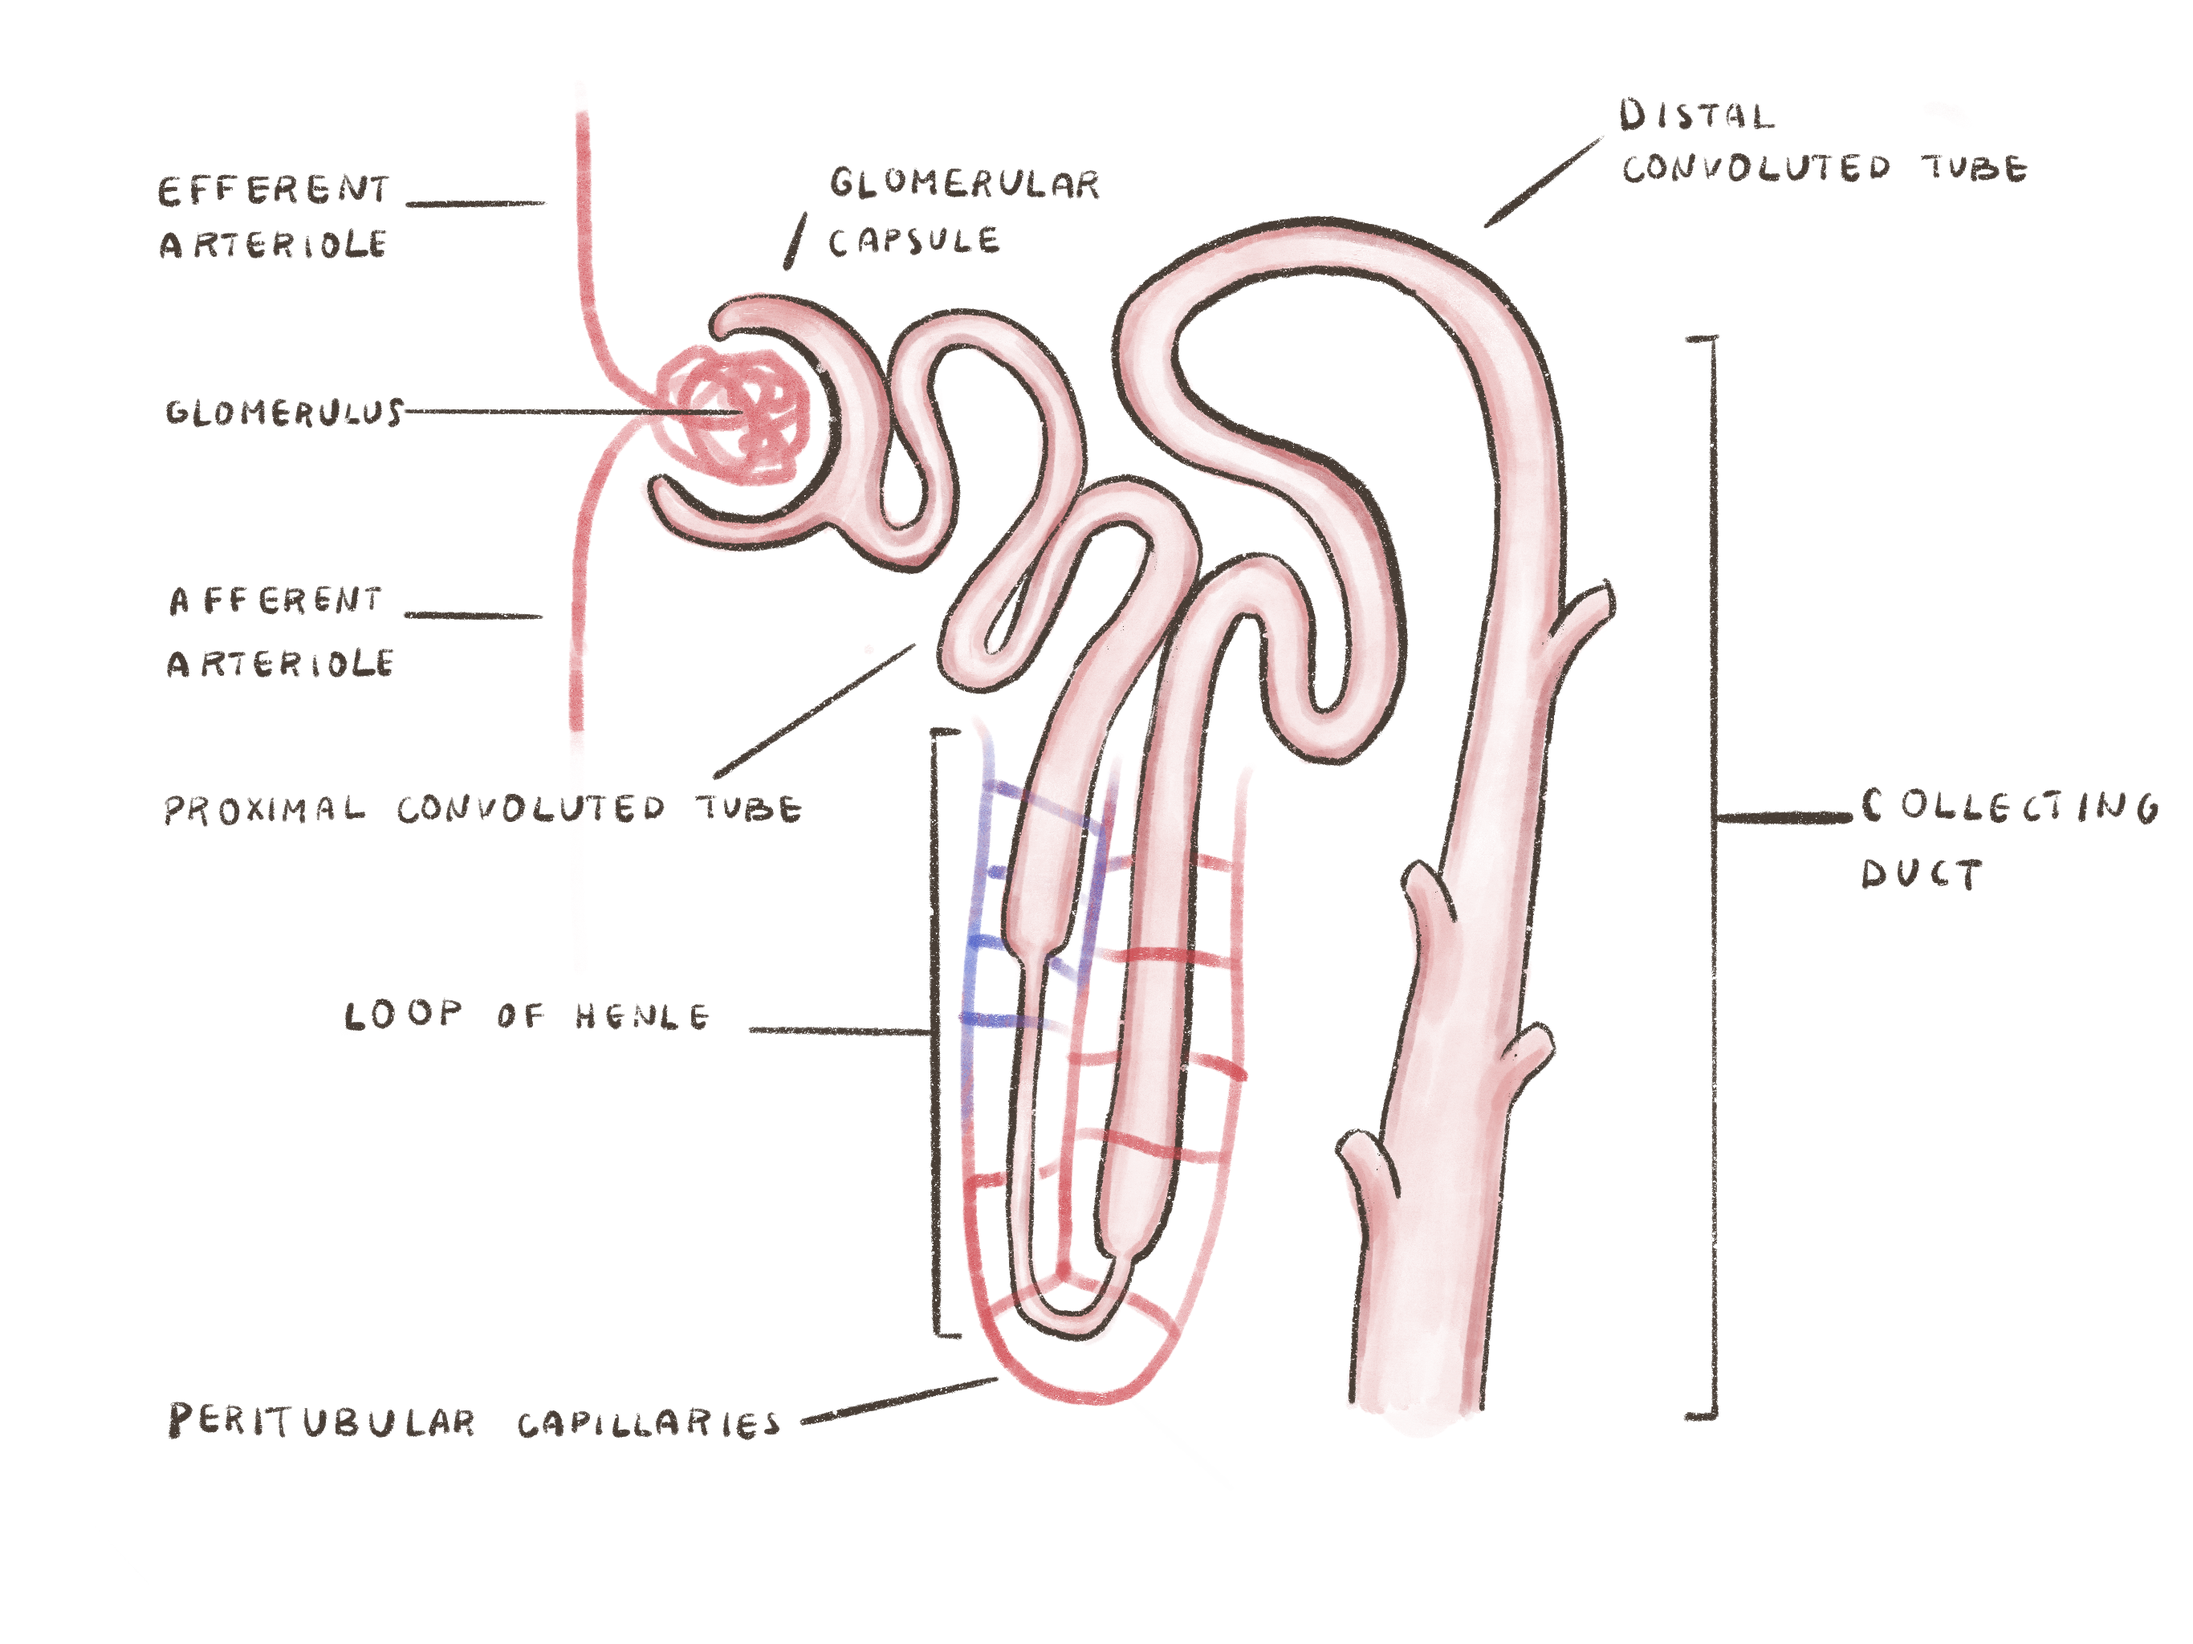
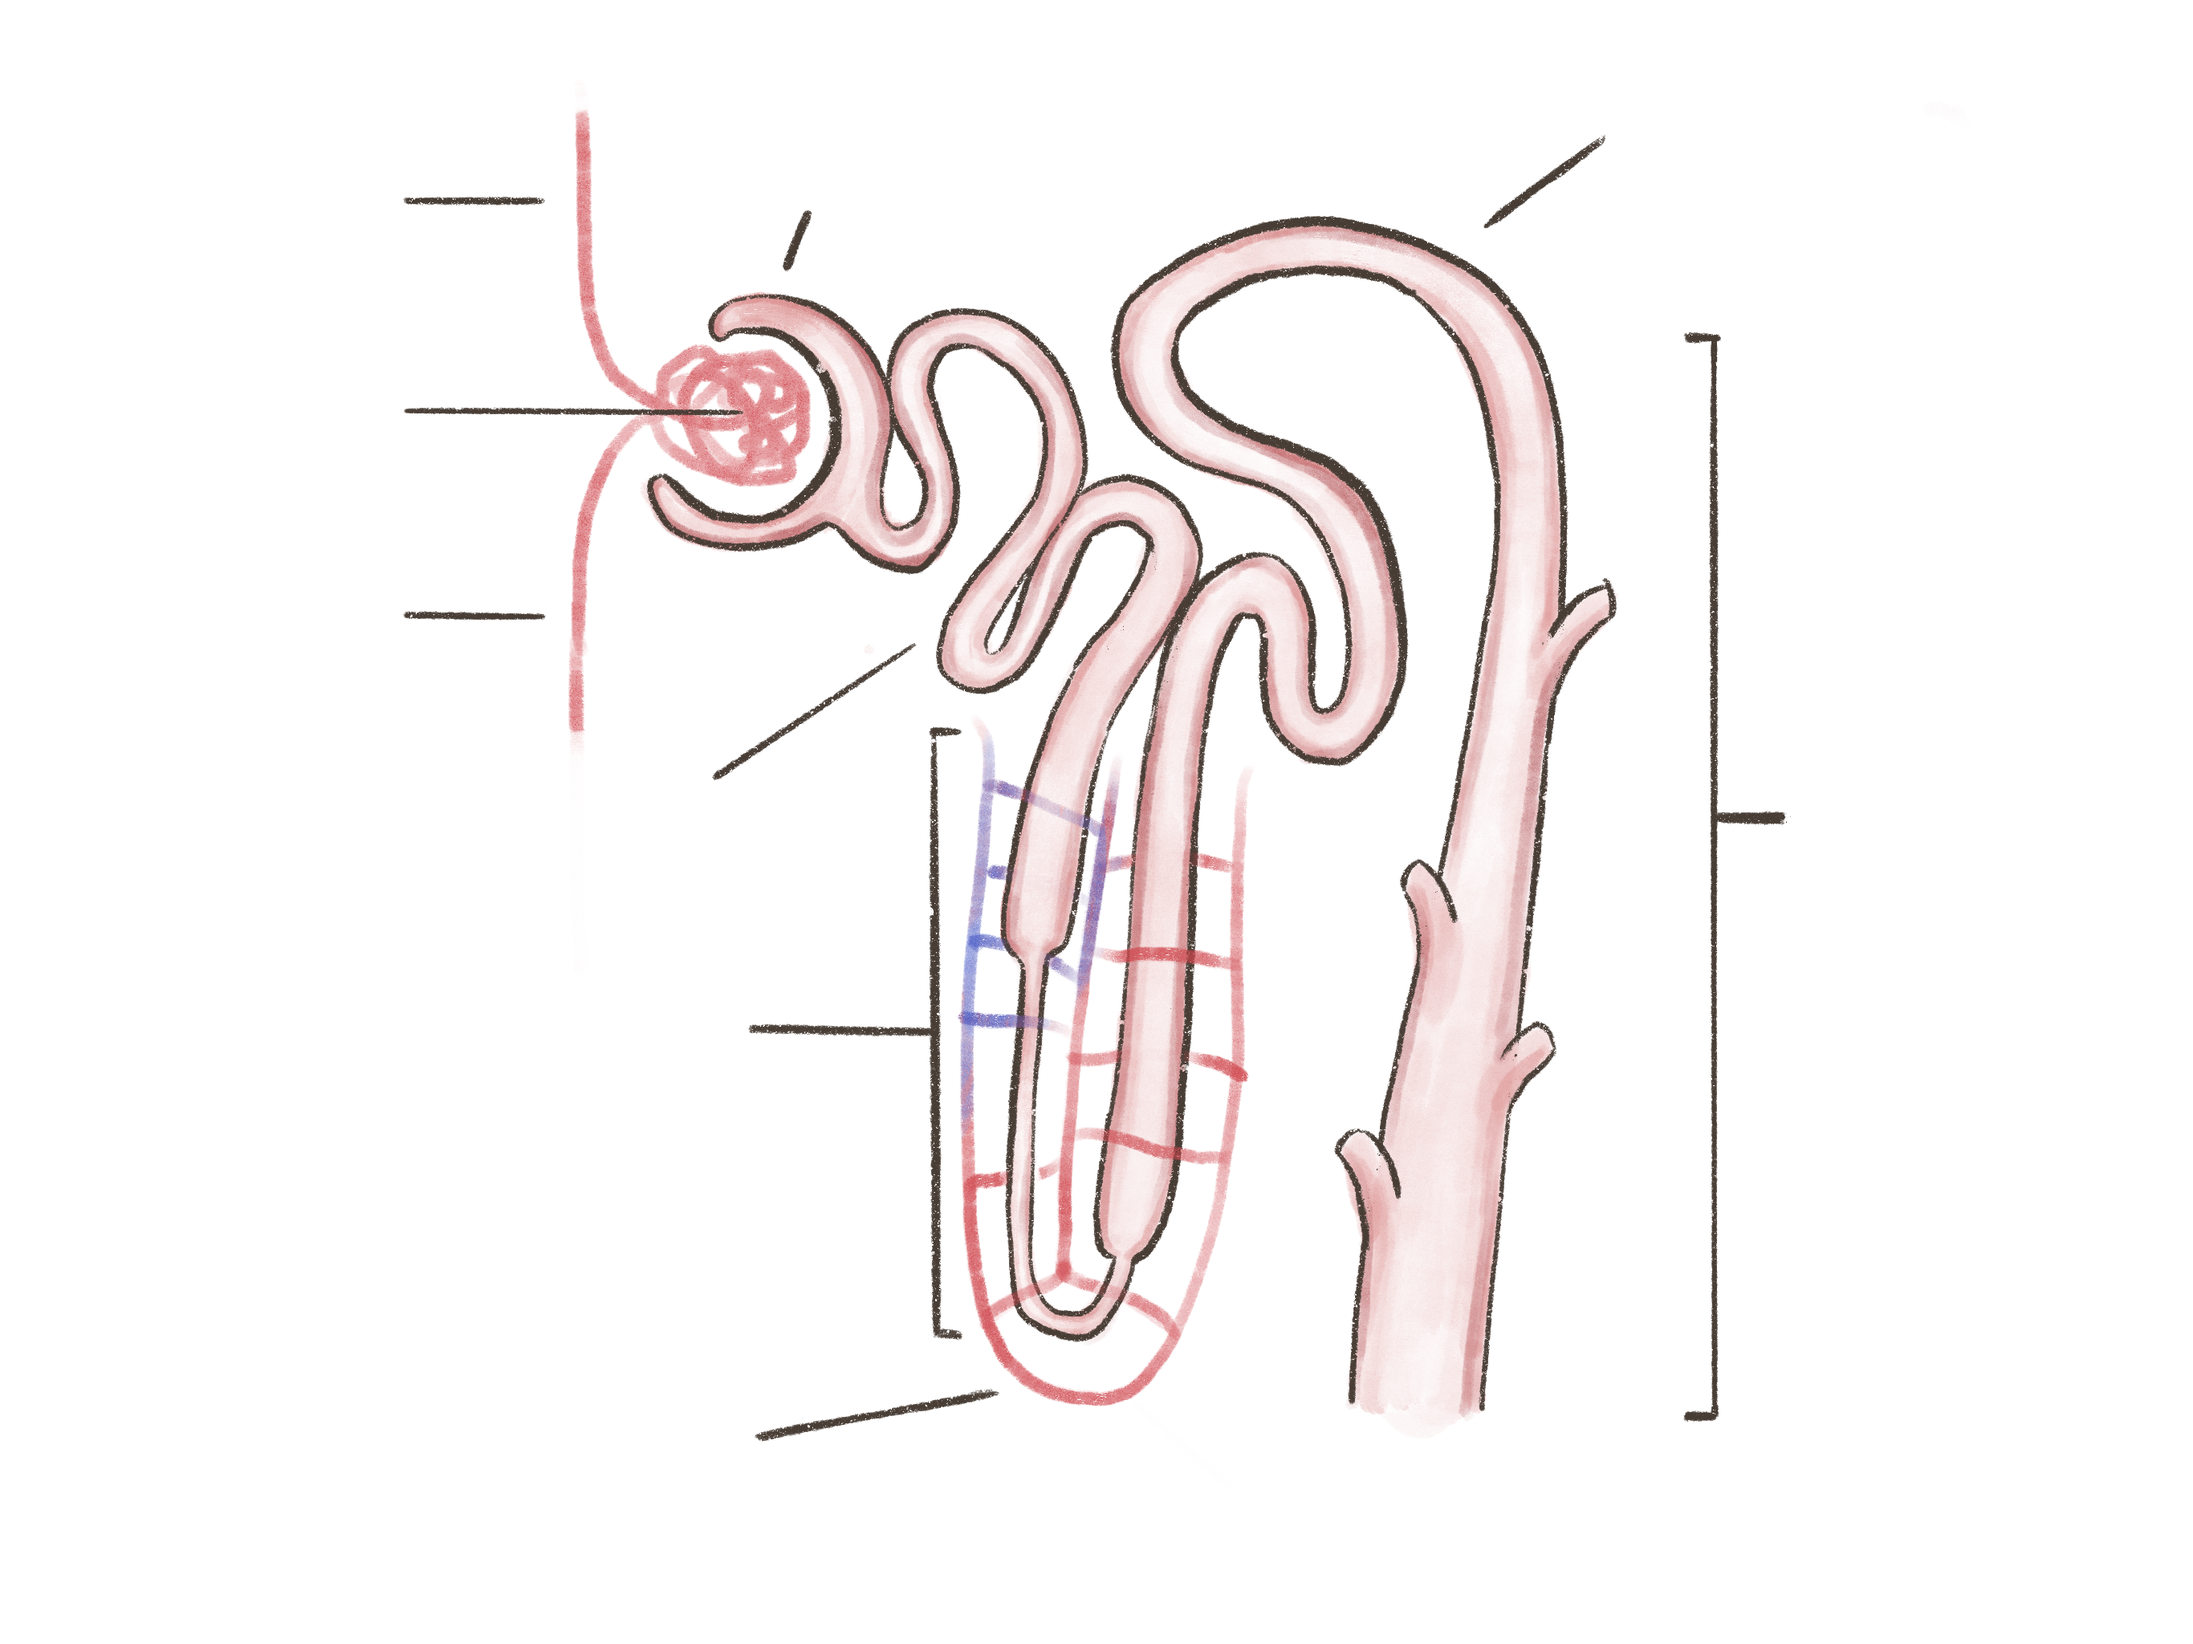
buttons added

diff --git a/physiology/heart-anatomy.html b/physiology/heart-anatomy.html
@@ -10,9 +10,23 @@
 
     <h2 class = "title">heart anatomy</h2>
     <div class="image-container">
-        <image src="../images/heart_anatomy.png" class="anatomy-image" style="margin-top: 150px;"></image>
+        <image src="../images/heart_anatomy.jpg" class="anatomy-image" style="margin-top: 120px;"></image>
         <div class="button-container">
-            <button type = "button" style = "position: absolute; top: 11%; left: 17%;">alveoli</button>
+            <button type = "button" style = "position: absolute; top: -1%; left: 17.5%;">superior vena cava</button>
+            <button type = "button" style = "position: absolute; top: 9%; right: 71%;">(r) pulmonary artery</button>
+            <button type = "button" style = "position: absolute; top: 34%; right: 71%;">right atrium</button>
+            <button type = "button" style = "position: absolute; top: 43.5%; right: 71%;">tricuspid valve</button>
+            <button type = "button" style = "position: absolute; top: 52%; right: 67.5%;">right ventricle</button>
+            <button type = "button" style = "position: absolute; top: 69%; right: 66.5%;">inferior vena cava</button>
+            <button type = "button" style = "position: absolute; top: 2%; left: 60%;">aorta</button>
+            <button type = "button" style = "position: absolute; top: 11%; left: 62.5%;">pulmonary artery</button>
+            <button type = "button" style = "position: absolute; top: 23%; left: 75%;">(l) pulmonary artery</button>
+            <button type = "button" style = "position: absolute; top: 33%; left: 67.5%;">pulmonary valve</button>
+            <button type = "button" style = "position: absolute; top: 41%; left: 67.5%;">mitral valve</button>
+            <button type = "button" style = "position: absolute; top: 51%; left: 69.5%;">aortic valve</button>
+            <button type = "button" style = "position: absolute; top: 62%; left: 72%;">left ventricle</button>
+            <button type = "button" style = "position: absolute; top: 80%; left: 69.5%;">apex</button>
+            <button type = "button" style = "position: absolute; top: 88%; left: 65.5%;">systemic artery</button>
            
         </div>
     </div>

diff --git a/physiology/components-of-blood.html b/physiology/components-of-blood.html
@@ -13,8 +13,40 @@
     <div class="image-container">
         <image src="../images/comps_blood.png" class="anatomy-image" style="margin-top: 150px;"></image>
         <div class="button-container">
-            <button type = "button" style = "position: absolute; top: 11%; left: 17%;">red blood cell (rbc)</button>
-           
+            <button type = "button" style = "position: absolute; top: -19%; left: 18%;">
+                <b>red blood cells/RBC</b><br>
+                <small>(45% of blood, bi-concave disc;<br>
+                    no nucleus or mitochondria;<br>
+                    carries hemoglobin, O2, CO2, etc;<br>
+                    recycled every 4 months by liver and spleen)
+                </small>
+            </button>
+            <button type = "button" style = "position: absolute; top: -12%; left: 55%;">
+                <b>plasma</b><br>
+                <small>(55% of blood, yellow + sticky fluid;<br>
+                    mainly water and proteins;<br>
+                    carries heat energy, glucose,<br>
+                    amino acids, vitamins, etc;<br>
+                    provides some immune defense)
+                </small>
+            </button>
+           <button type = "button" style = "position: absolute; top: 72%; left: 10%;">
+                <b>platelets</b><br>
+                <small>(&lt;1% of blood; stops bleeding through<br>
+                    <b>hemostasis</b>, 
+                    using prothrombin, thrombin,<br>
+                    and fibrin to form clots;<br>
+                    can cause undesired blood clots)
+                </small>
+            </button>
+            <button type = "button" style = "position: absolute; top: 83%; left: 44%;">
+                <b>white blood cells/WBC</b><br>
+                <small>(&lt;1% of blood; mainly phagocytes or lymphocytes;<br>
+                    feeds on pathogens via 
+                    <b>phagocytosis</b> and/or antibody production)
+                </small>
+            </button>
+            
         </div>
     </div>
     

diff --git a/physiology/kidney-anatomy.html b/physiology/kidney-anatomy.html
@@ -11,9 +11,20 @@
     
     <div class="image-container">
         
-        <image src="../images/kidney.png" class="anatomy-image"></image>
+        <image src="../images/kidney.jpg" class="anatomy-image"></image>
         <div class="button-container">
-            <button type = "button" style = "position: absolute; top: 11%; left: 17%;">alveoli</button>
+            <button type = "button" style = "position: absolute; top: 26%; right: 79.5%;">renal sinus</button>
+            <button type = "button" style = "position: absolute; top: 39%; right: 79.5%;">renal artery</button>
+            <button type = "button" style = "position: absolute; top: 46%; right: 79.5%;">renal vein</button>
+            <button type = "button" style = "position: absolute; top: 53%; right: 79.5%;">hilum</button>
+            <button type = "button" style = "position: absolute; top: 81%; right: 79.5%;">ureter</button>
+            <button type = "button" style = "position: absolute; top: 7.5%; left: 78.5%;">renal capsule</button>
+            <button type = "button" style = "position: absolute; top: 14.5%; left: 78.5%;">renal cortex</button>
+            <button type = "button" style = "position: absolute; top: 24%; left: 78.5%;">renal pyramid</button>
+            <button type = "button" style = "position: absolute; top: 38%; left: 78.5%;">minor calyse</button>
+            <button type = "button" style = "position: absolute; top: 47%; left: 78.5%;">major calyse</button>
+            <button type = "button" style = "position: absolute; top: 66%; left: 78.5%;">renal column</button>
+            <button type = "button" style = "position: absolute; top: 79%; left: 78.5%;">minor calyse</button>
 
         </div>
     </div>

diff --git a/physiology/nephron-anatomy.html b/physiology/nephron-anatomy.html
@@ -13,7 +13,15 @@
         
         <image src="../images/nephron_anatomy.png" class="anatomy-image"></image>
         <div class="button-container">
-            <button type = "button" style = "position: absolute; top: 11%; left: 17%;">alveoli</button>
+            <button type = "button" style = "position: absolute; top: 8%; right: 76%;">efferent arteriole</button>
+            <button type = "button" style = "position: absolute; top: 21%; right: 76%;">glomerulus</button>
+            <button type = "button" style = "position: absolute; top: 34%; right: 76%;">afferent arteriole</button>
+            <button type = "button" style = "position: absolute; top: 45.5%; right: 64.5%;">proximal convoluted tubule</button>
+            <button type = "button" style = "position: absolute; top: 59%; right: 63.4%;">loop of henle</button>
+            <button type = "button" style = "position: absolute; top: 84%; right: 63.4%;">peritubular capillaries</button>
+            <button type = "button" style = "position: absolute; top: 5%; right: 37%;">glomerular (Bowman's) capsule</button>
+            <button type = "button" style = "position: absolute; top: 5%; left: 69%;">distal convoluted tubule</button>
+            <button type = "button" style = "position: absolute; top: 46%; left: 75.8%;">collecting duct</button>
             
         </div>
     </div>

diff --git a/physiology.html b/physiology.html
@@ -13,7 +13,7 @@
         <nav>
             <ul>
                 <li><a href="index.html">EXPERIMATICS</a></li>
-                <li><a href="#commissions">Commissions</a></li>
+                <li><a href="index.html#commissions">Commissions</a></li>
                 <li><a href="physiology.html">Physiology</a></li>
                 <li><a href="biology.html">Biology</a></li>
             </ul>
@@ -36,7 +36,7 @@
             <summary>Circulatory System</summary>
                 <a href="#componentsofblood-modal">components of blood</a>
                 <a href="#manualbloodpressure-modal">manual blood pressure</a>
-                <a href="#bloodflowvessels-modal">blood flow and vessels</a>
+                <!--<a href="#bloodflowvessels-modal">blood flow and vessels</a>-->
         </details>
         <details>
             <summary>Cardiovascular System</summary>

diff --git a/index.html b/index.html
@@ -36,6 +36,9 @@
     <section class = "choose-subject-container" id ="choose-subject">
 
         <h2>Choose a subject:</h2>
+    
+    </section> 
+
         <button class = "subject-button">
             <image src="images/physio_button.png" class = "subject-image" href="physiology.html"></image>
             <a href="physiology.html">
@@ -48,11 +51,11 @@
                 <h3>BIOLOGY</h3>
             </a>
         </button>--> 
-    </section>
 
     <!-- commissions -->
     <section class = "choose-subject-container" id ="commissions">
         <h2>Commissions</h2>
         <p>Click to learn more about commissions and/or submit a topic you would like visualized!</p>
+    </section>
 </body>
 </html>

diff --git a/physiology/blood-flow-heart.html b/physiology/blood-flow-heart.html
@@ -11,8 +11,8 @@
     
     <div class="image-container">
         <h2 class = "title">blood flow through the heart (animation)</h2>
-        <video class = "video-container" controls autoplay loop>
-            <source src="../images/blood_flow_through_heart.mp4" type="video/mp4">
+        <video class = "video-container" controls autoplay loop style = "margin-top: 75px;">
+            <source src="../images/blood_flow_heart.mp4" type="video/mp4">
         </video>
         
     </div>

diff --git a/index-style.css b/index-style.css
@@ -149,8 +149,8 @@ nav a:hover {
 .choose-subject-container {
     margin: 3em auto;
     width: min(80em, 100%);
-    display: flex;
-    flex-wrap: wrap;
+    /*display: flex;*/
+    /*flex-wrap: wrap;*/
     /*justify-content: center;*/
     gap: 3em;
 }
@@ -163,6 +163,7 @@ nav a:hover {
     font-family: nunito, sans-serif;
     padding: 0;
     overflow: hidden;
+    margin-left: 7em;
 }
 
 .subject-button a {
